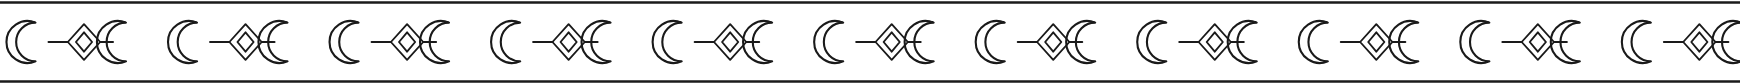
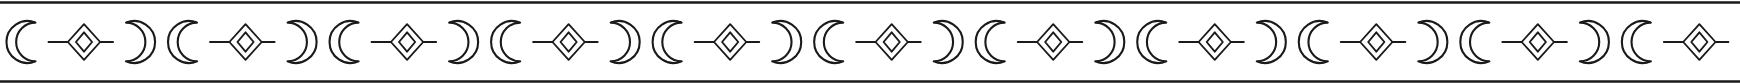
Halbmond-Positionierung korrigieren, Kette entfernen, Kalligrafie zu Stern vereinfachen
- Halbmond: die beiden Mondsicheln je Kachel nutzten identische Pfaddaten
  und zeigten dadurch in dieselbe statt in die jeweils andere Richtung
  (kein "( )"-Bookend-Paar, sondern zwei gleich ausgerichtete Sicheln).
  Zweite Sichel gespiegelt (Bogenrichtungen vertauscht), sodass beide
  jetzt symmetrisch zur mittigen Raute hin geöffnet sind.
- Kette-Variante komplett entfernt (auf Nutzerwunsch).
- Kalligrafie-Variante: das و (waw) im Zentrum des zwölfzackigen Sterns
  entfernt (inkl. des umgebenden Kreises) - jetzt ein rein geometrischer
  Stern ohne Schriftzeichen, Variante entsprechend zu "stern12"/"Stern"
  umbenannt.

Damit drei Musterstreifen-Varianten: Sterne, Halbmond, Stern.

Claude-Session: https://claude.ai/code/session_019vMJotETzTJGAaB8Uzutz7

diff --git a/lib/patternStrip.ts b/lib/patternStrip.ts
@@ -1,7 +1,7 @@
 import { MusterVariante } from "@/lib/types";
 
 /**
- * Islamische Musterelemente: vier auswählbare, horizontal durchlaufende Zierstreifen im
+ * Islamische Musterelemente: drei auswählbare, horizontal durchlaufende Zierstreifen im
  * Girih-Stil (wie klassische maurische/Alhambra-Randmuster). Jede Variante ist ein echtes
  * Kachelmuster - eine Kachel wird so oft nebeneinandergesetzt, wie in die verfügbare Breite
  * passt, ohne Verzerrung.
@@ -25,8 +25,7 @@ export interface MusterDefinition {
 export const MUSTER_LABEL: Record<MusterVariante, string> = {
   sterne: "Sterne",
   halbmond: "Halbmond",
-  kalligrafie: "Kalligrafie",
-  kette: "Kette",
+  stern12: "Stern",
 };
 
 export const MUSTER_DEFINITIONEN: Record<MusterVariante, MusterDefinition> = {
@@ -70,9 +69,11 @@ export const MUSTER_DEFINITIONEN: Record<MusterVariante, MusterDefinition> = {
       },
     ],
   },
-  // Zwei Halbmonde flankieren eine Raute - der Halbmond ist als ein einziger, geschlossener
-  // Pfad aus zwei gegenläufigen Bögen gezeichnet (nicht als zwei sich überlappende Kreise -
-  // das würde bei fill="none" nur zwei offene Ringe statt einer Mondsichel ergeben).
+  // Zwei Halbmonde flankieren eine Raute, beide zur Mitte hin geöffnet ("(" links, ")" rechts).
+  // Der Halbmond ist als ein einziger, geschlossener Pfad aus zwei gegenläufigen Bögen
+  // gezeichnet (nicht als zwei sich überlappende Kreise - das würde bei fill="none" nur zwei
+  // offene Ringe statt einer Mondsichel ergeben). Die beiden Halbmonde sind zueinander
+  // gespiegelt (Bogenrichtungen vertauscht), sonst würden beide in dieselbe Richtung zeigen.
   halbmond: {
     kachelBreite: 100,
     kachelHoehe: 52,
@@ -83,7 +84,7 @@ export const MUSTER_DEFINITIONEN: Record<MusterVariante, MusterDefinition> = {
         strichstaerke: 1.3,
         pfade: [
           "M22,14 A13,13 0 1,0 22,38 A9,9 0 1,1 22,14 Z",
-          "M78,14 A13,13 0 1,0 78,38 A9,9 0 1,1 78,14 Z",
+          "M78,14 A13,13 0 1,1 78,38 A9,9 0 1,0 78,14 Z",
         ],
       },
       {
@@ -97,8 +98,9 @@ export const MUSTER_DEFINITIONEN: Record<MusterVariante, MusterDefinition> = {
       },
     ],
   },
-  // Stilisiertes arabisches و (waw) im Kern eines zwölfzackigen Sterns, flankiert von Rauten.
-  kalligrafie: {
+  // Zwölfzackiger Stern, flankiert von Rauten - rein geometrisch, ohne Schriftzeichen o.ä. im
+  // Zentrum.
+  stern12: {
     kachelBreite: 120,
     kachelHoehe: 60,
     rahmenY: [1.5, 58.5],
@@ -111,44 +113,12 @@ export const MUSTER_DEFINITIONEN: Record<MusterVariante, MusterDefinition> = {
         ],
       },
       {
-        strichstaerke: 1.4,
-        pfade: ["M56,25 Q60,21 65,24 L65,36 Q61,40 56,37 M65,31 H70"],
-      },
-      {
-        strichstaerke: 1.0,
-        pfade: ["M51,30 A9,9 0 1,0 69,30 A9,9 0 1,0 51,30 Z"],
-      },
-      {
         strichstaerke: 1.15,
         pfade: ["M12,30 L20,22 L28,30 L20,38 Z", "M92,30 L100,22 L108,30 L100,38 Z"],
       },
       {
         strichstaerke: 1.1,
         pfade: ["M28,30 H38", "M82,30 H92"],
-      },
-    ],
-  },
-  // Halbmond (korrekt als ein Pfad aus zwei gegenläufigen Bögen), Rauten-Kette und kleine
-  // Rauten-Akzente, verbunden durch dünne Linien.
-  kette: {
-    kachelBreite: 100,
-    kachelHoehe: 52,
-    rahmenY: [1.5, 50.5],
-    rahmenStrichstaerke: 1.5,
-    gruppen: [
-      {
-        strichstaerke: 1.25,
-        pfade: ["M20,15 A11,11 0 1,0 20,37 A7.5,7.5 0 1,1 20,15 Z", "M38,26 L48,16 L58,26 L48,36 Z"],
-      },
-      {
-        strichstaerke: 1.1,
-        pfade: [
-          "M48,21 L53,26 L48,31 L43,26 Z",
-          "M68,18 L74,12 L80,18 L74,24 Z",
-          "M68,34 L74,28 L80,34 L74,40 Z",
-          "M30,26 H38",
-          "M58,26 H66",
-        ],
       },
     ],
   },

diff --git a/lib/docx/buildWorksheetDocx.ts b/lib/docx/buildWorksheetDocx.ts
@@ -18,12 +18,11 @@ import { ICONS, IconKey } from "@/lib/icons";
 // Jede public/patterns/leiste-*.png ist eine einmalig serverseitig gerenderte Ansicht des
 // jeweiligen Vektor-Streifens (lib/patternStrip.ts) - fix auf die bekannte Satzspiegelbreite
 // (A4, Standard-Ränder) zugeschnitten, da Word (anders als Web/PDF) nicht responsiv auf
-// Vektor-Ebene skaliert. Alle vier auf dasselbe Seitenverhältnis gerendert.
+// Vektor-Ebene skaliert. Alle auf dasselbe Seitenverhältnis gerendert.
 const MUSTERSTREIFEN_BILD_PFADE: Record<MusterVariante, string> = {
   sterne: path.join(process.cwd(), "public/patterns/leiste-sterne.png"),
   halbmond: path.join(process.cwd(), "public/patterns/leiste-halbmond.png"),
-  kalligrafie: path.join(process.cwd(), "public/patterns/leiste-kalligrafie.png"),
-  kette: path.join(process.cwd(), "public/patterns/leiste-kette.png"),
+  stern12: path.join(process.cwd(), "public/patterns/leiste-stern12.png"),
 };
 const MUSTERSTREIFEN_BILD_SEITENVERHAELTNIS = 1740 / 84;
 

diff --git a/lib/types.ts b/lib/types.ts
@@ -65,7 +65,7 @@ export type Template = (typeof TEMPLATES)[number];
 export const FARBMODI = ["farbe", "schwarzweiss"] as const;
 export type Farbmodus = (typeof FARBMODI)[number];
 
-export const MUSTER_VARIANTEN = ["sterne", "halbmond", "kalligrafie", "kette"] as const;
+export const MUSTER_VARIANTEN = ["sterne", "halbmond", "stern12"] as const;
 export type MusterVariante = (typeof MUSTER_VARIANTEN)[number];
 
 export const LayoutConfigSchema = z.object({

diff --git a/README.md b/README.md
@@ -68,17 +68,17 @@ Schnellauswahl, sobald „1./2. Klasse Volksschule“ als Schulstufe gewählt is
   Hijri-Datum (tabellarischer Kalender) an, inkl. Hinweis auf mögliche ±1-Tag-Abweichung durch
   Mondsichtung (`lib/hijri.ts`). Optional abschaltbar.
 - **Musterstreifen**: ein Zierstreifen im Girih-Stil (wie klassische maurische/Alhambra-
-  Randmuster) unter dem Kopfbereich, mit vier auswählbaren Varianten (`lib/patternStrip.ts`,
+  Randmuster) unter dem Kopfbereich, mit drei auswählbaren Varianten (`lib/patternStrip.ts`,
   Auswahl im Erstellen-Formular mit Live-Vorschau je Muster):
   - **Sterne**: achtzackiger Stern mit innerem Kern, ineinandergreifende Rauten-/Vieleck-Formen.
-  - **Halbmond**: zwei Mondsicheln flankieren eine Raute. Die Mondsichel ist als ein einziger,
-    geschlossener Pfad aus zwei gegenläufigen Kreisbögen gezeichnet - zwei separate, sich
-    überlappende volle Kreise würden bei `fill="none"` nur als zwei offene Ringe erscheinen,
-    nicht als Sichel.
-  - **Kalligrafie**: stilisiertes arabisches و (waw) im Kern eines zwölfzackigen Sterns.
-  - **Kette**: Mondsichel, Rauten-Kette und kleine Rauten-Akzente, verbunden durch dünne Linien.
+  - **Halbmond**: zwei Mondsicheln flankieren eine Raute, beide zur Mitte hin geöffnet. Die
+    Mondsichel ist als ein einziger, geschlossener Pfad aus zwei gegenläufigen Kreisbögen
+    gezeichnet - zwei separate, sich überlappende volle Kreise würden bei `fill="none"` nur als
+    zwei offene Ringe erscheinen, nicht als Sichel. Die beiden Halbmonde sind zueinander
+    gespiegelt, sonst würden beide in dieselbe statt in die jeweils andere Richtung zeigen.
+  - **Stern**: zwölfzackiger Stern, flankiert von Rauten - rein geometrisch.
 
-  Alle vier fließen unter dem Kopfbereich ganz normal mit dem Text statt frei/absolut
+  Alle drei fließen unter dem Kopfbereich ganz normal mit dem Text statt frei/absolut
   positioniert zu sein - kollidieren daher nie mit Titel oder Meta-Zeilen. Eigene Vektor-Kacheln,
   wiederholen sich beliebig oft nebeneinander über die volle Breite, ohne verzerrt zu werden.
   Ohne Gottesname/Koran-Vers (gleiche Begründung wie zuvor: Arbeitsblätter landen im Schulalltag
@@ -86,7 +86,7 @@ Schnellauswahl, sobald „1./2. Klasse Volksschule“ als Schulstufe gewählt is
   Breite); in PDF als explizit passend oft wiederholte Kachel (react-pdf kennt kein `<pattern>`,
   die Seitenbreite ist dort aber ohnehin fix bekannt); in Word als einmalig serverseitig
   gerenderte, auf die Satzspiegelbreite zugeschnittene PNG je Variante
-  (`public/patterns/leiste-{sterne,halbmond,kalligrafie,kette}.png`). Optional abschaltbar.
+  (`public/patterns/leiste-{sterne,halbmond,stern12}.png`). Optional abschaltbar.
 - **Druckfarbe (Farbe / Schwarz-Weiß)**: da die meisten Arbeitsblätter in der Schule ohnehin
   schwarzweiß ausgedruckt werden, lässt sich das pro Arbeitsblatt umschalten. Im Schwarz-Weiß-
   Modus wird der farbige Kopfbereich der „Modern“-Vorlage durch die schlichte, umrandete
